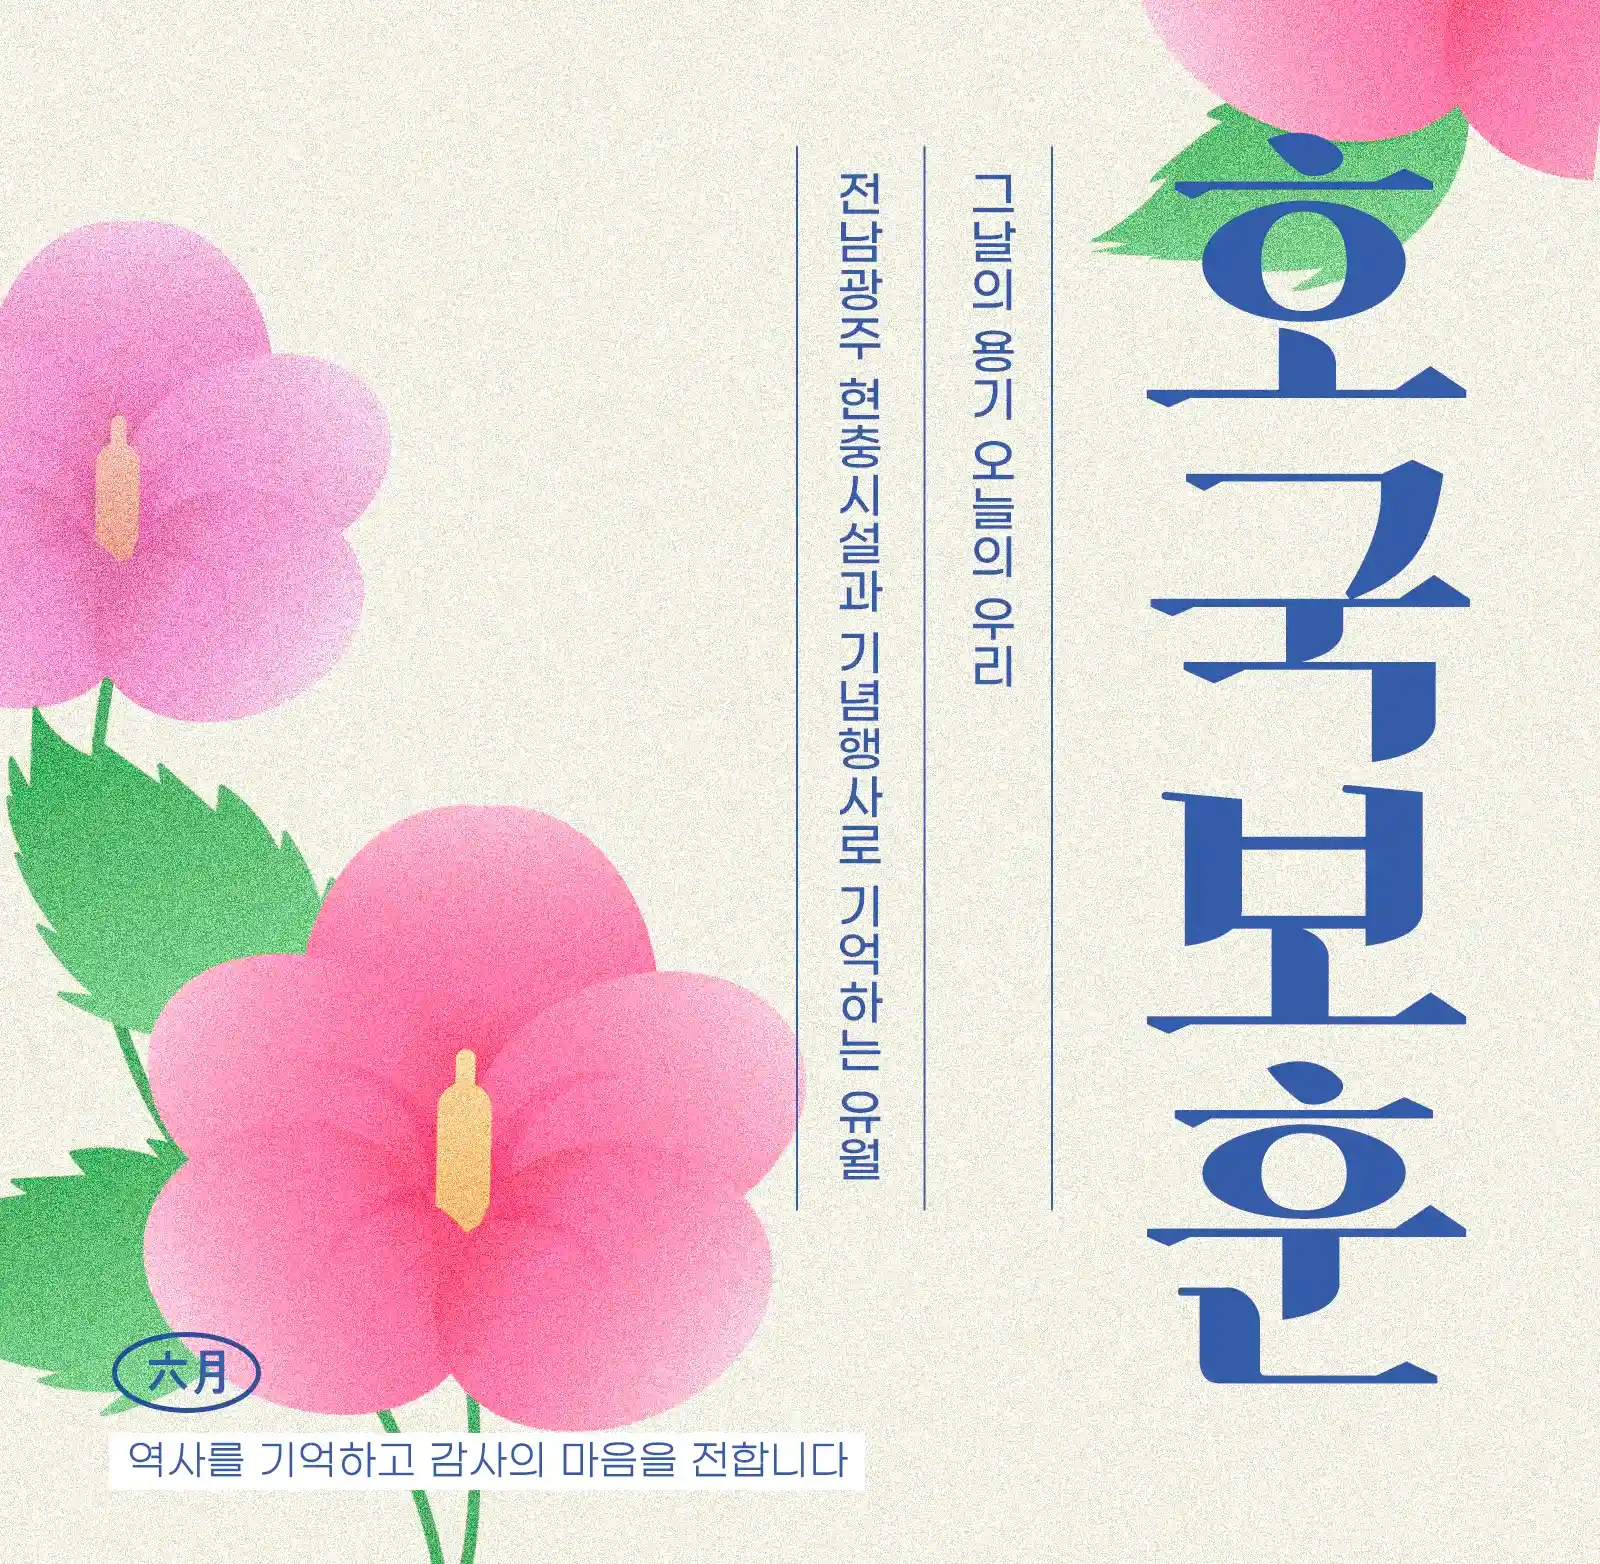
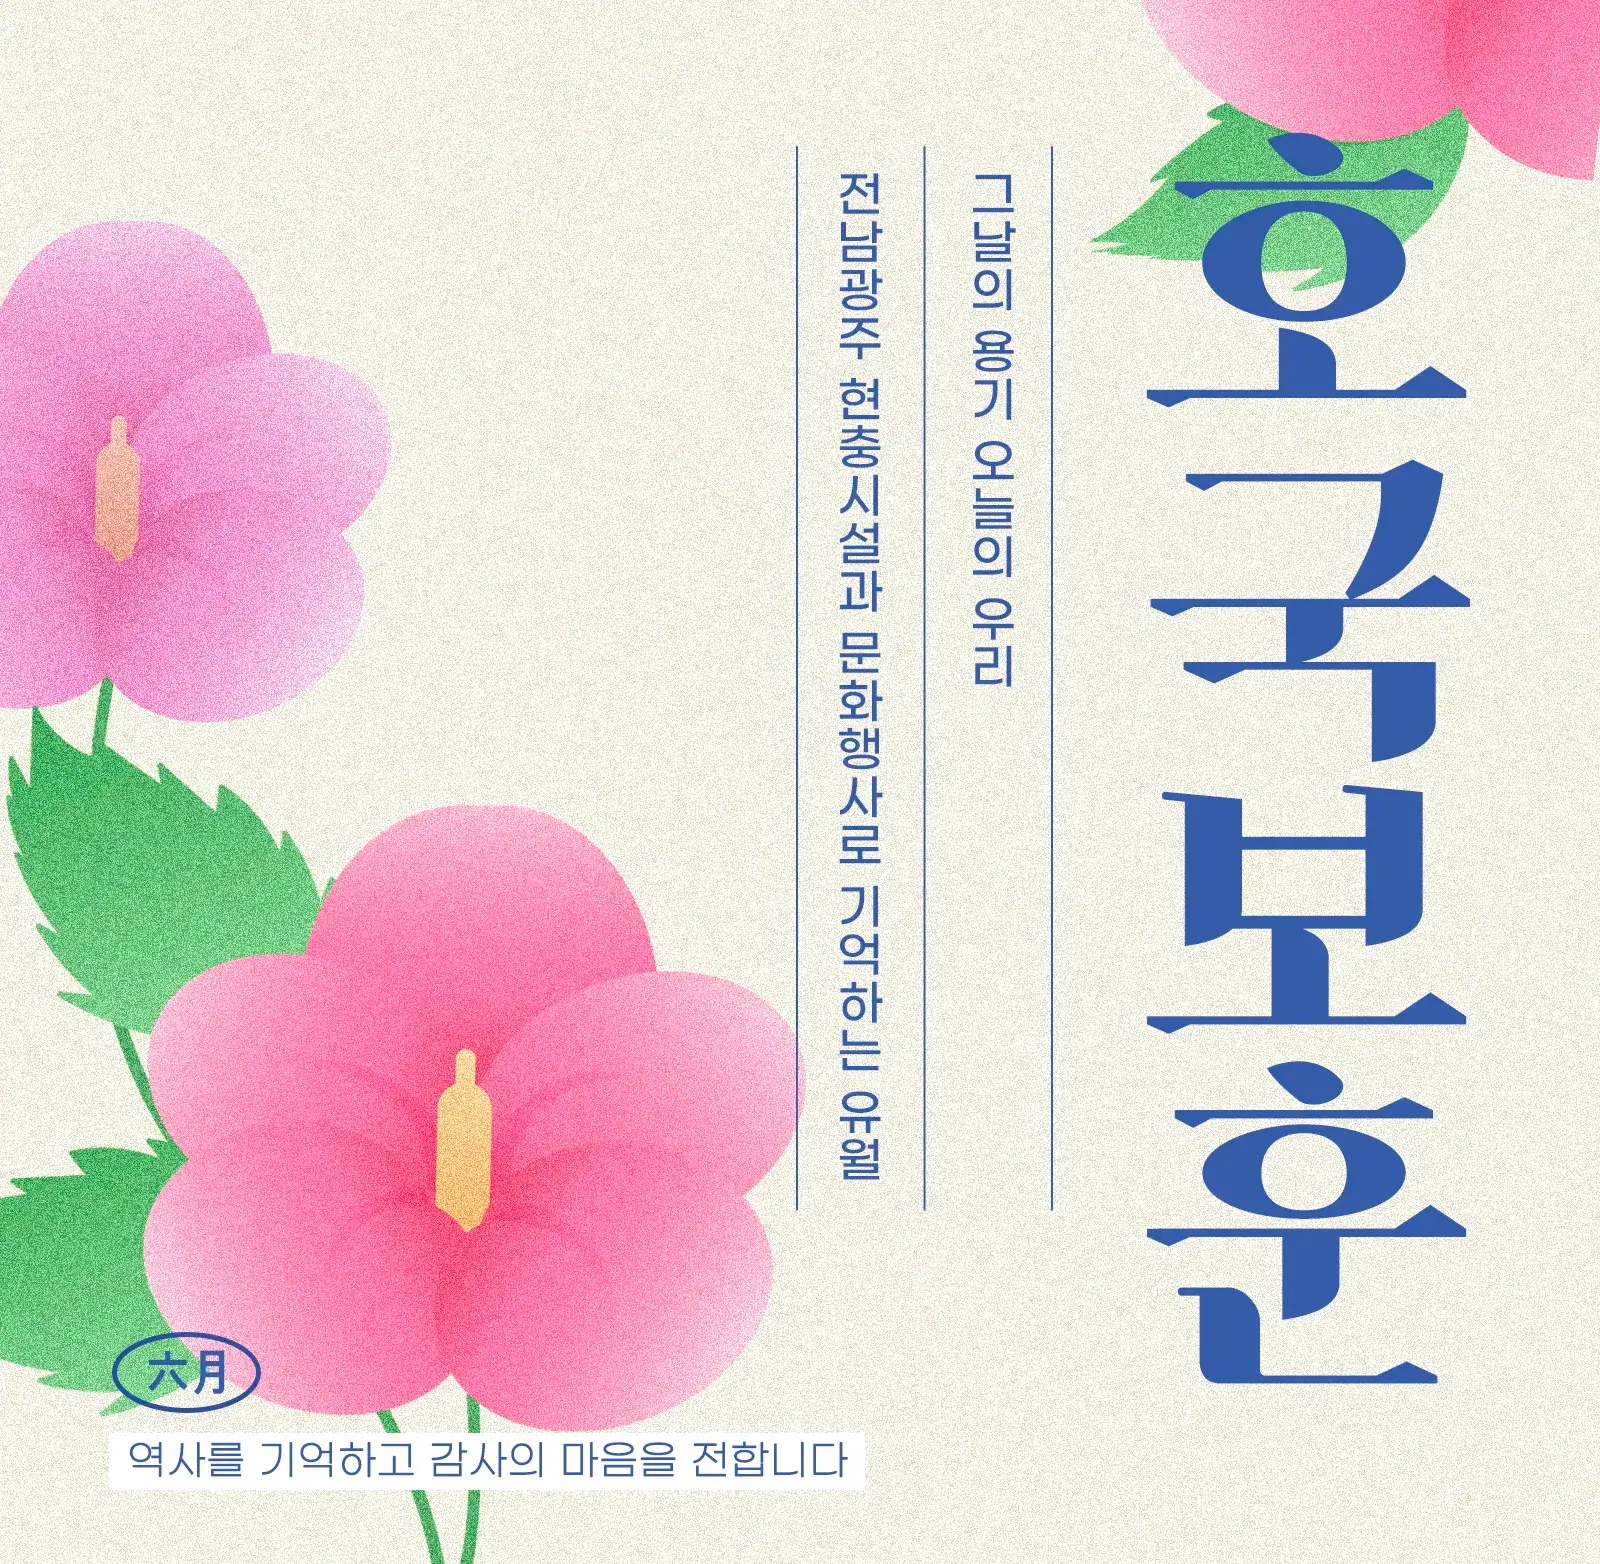
Add files via upload

diff --git a/index.html b/index.html
@@ -1,4 +1,10 @@
+<!-- 캐시 차단 -->
+<meta http-equiv="Cache-Control" content="no-cache, no-store, must-revalidate" />
+<meta http-equiv="Pragma" content="no-cache" />
+<meta http-equiv="Expires" content="0" />
 
+  
+  
   <script>
   (function(){
     try{